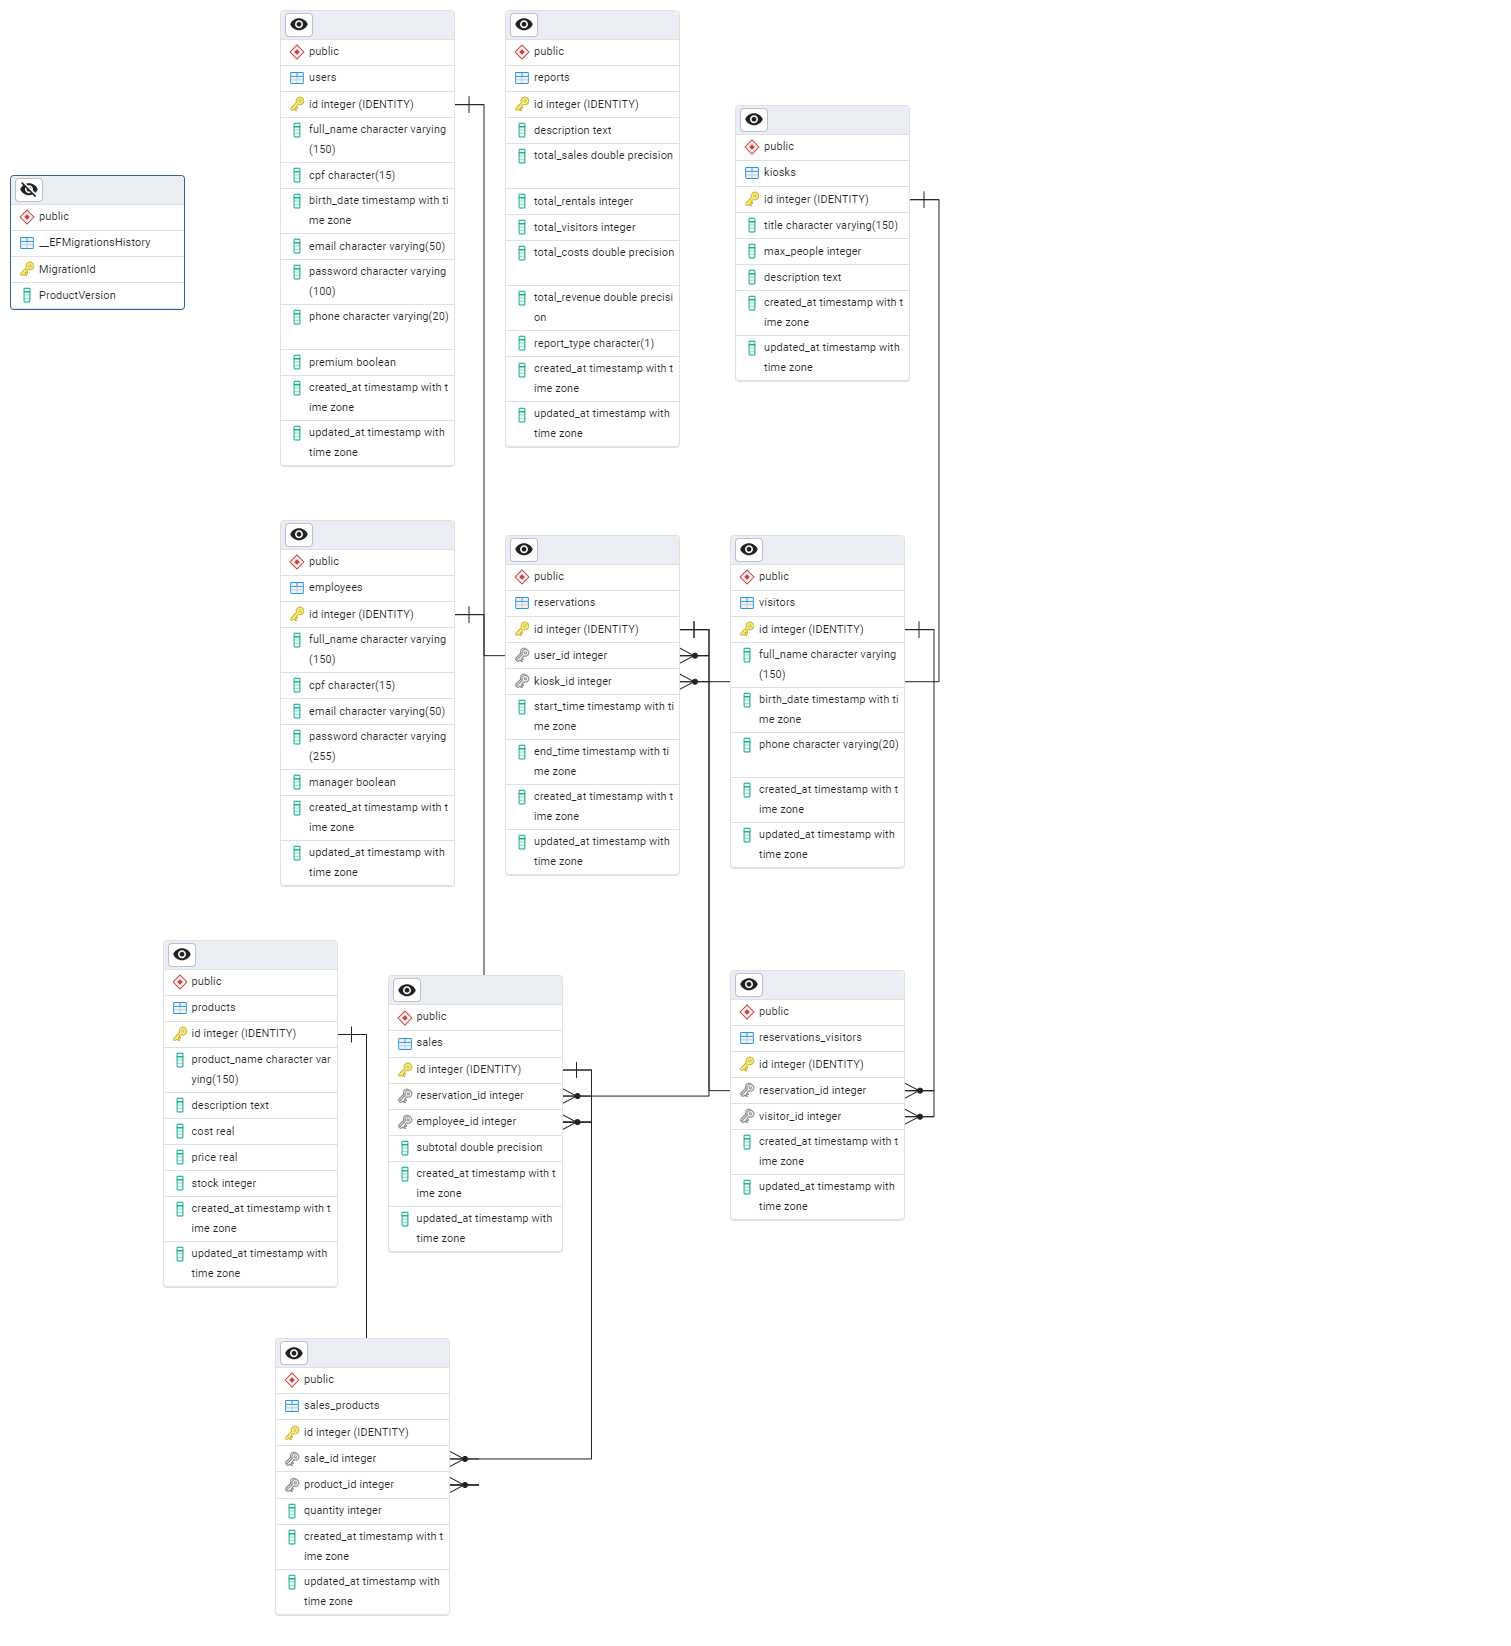
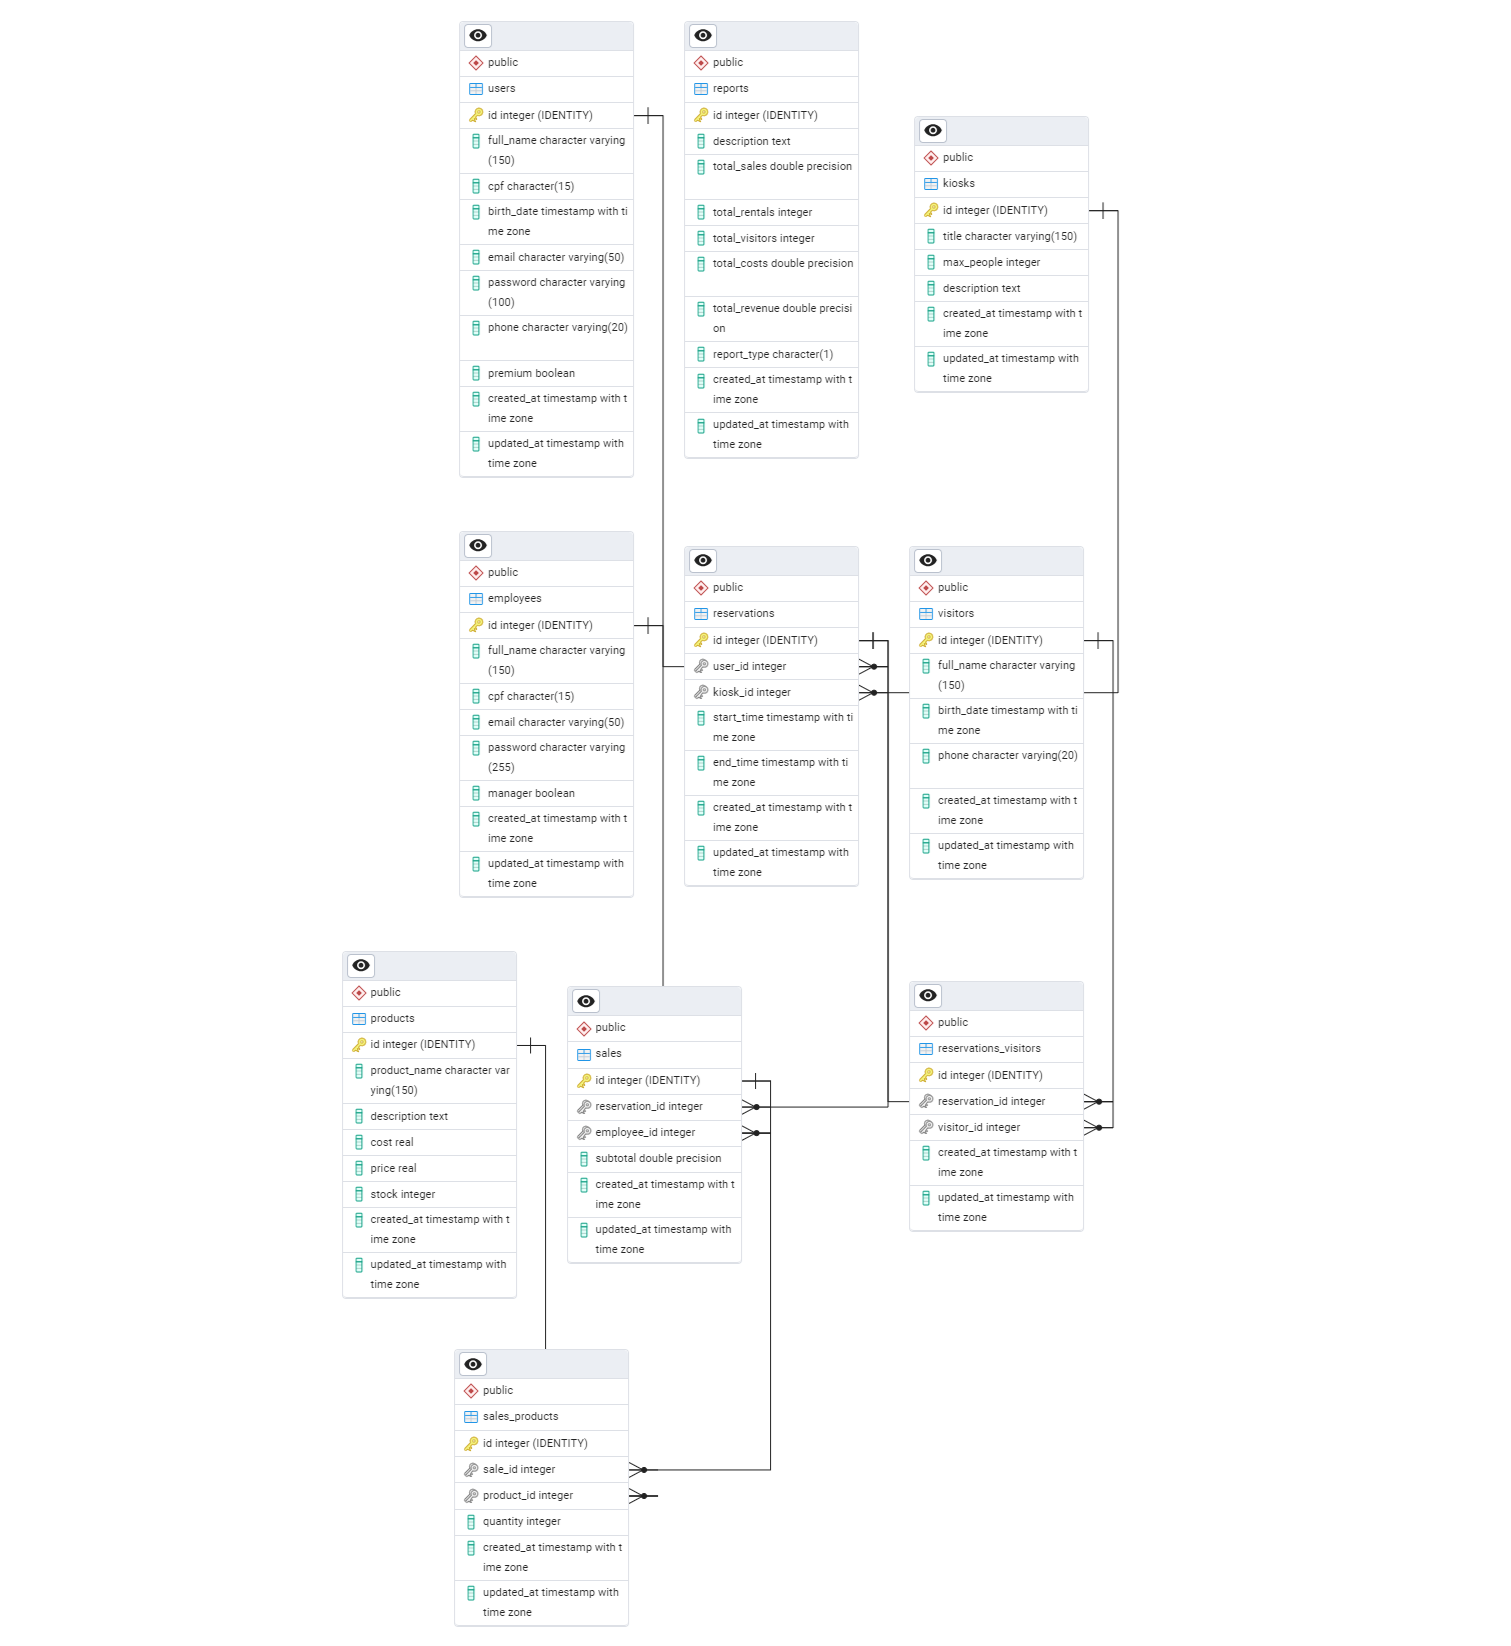
Doc: Adicionando Imagem do DER no README

diff --git a/README.md b/README.md
@@ -6,6 +6,13 @@
 O **Toca da Onça** é um sistema de gestão completo para balneários, desenvolvido para modernizar operações como reservas de espaços, controle de vendas e gestão de visitantes. Nosso objetivo é unir **natureza e tecnologia**, oferecendo uma experiência digital intuitiva para clientes e eficiência operacional para gestores.
 
 ---
+## 🖼 Imagem do DER:
+   
+![Imagem do Der](Documentation/Der/DER-TocaDaOnca.pgerd.png)
+
+Esta figura ilustra o funcionamento do nosso sistema, mostrando de forma resumida os principais componentes e sua interação.
+
+---
 
 ## 🛠 Arquitetura do Projeto  
 O sistema é dividido em **Frontend** (interface do usuário) e **Backend** (API e lógica de negócio), seguindo o padrão RESTful:  
@@ -64,15 +71,15 @@ Adotamos **Conventional Commits** para rastreabilidade clara:
 ## 📥 Instalação e Configuração  
 
 ### Pré-requisitos:  
-- [.NET 6 SDK](https://dotnet.microsoft.com/download)  
+- [.NET 8+](https://dotnet.microsoft.com/download)  
 - [PostgreSQL 14+](https://www.postgresql.org/download/)  
 - Navegador moderno (Chrome, Firefox)  
 
 ### Passos para Executar o Projeto:  
 1. **Clone o repositório**:  
    ```bash
-   git clone https://github.com/seu-usuario/toca-da-onca.git
-   cd toca-da-onca/backend
+   git clone https://github.com/joselucas0/TocaDaOnca
+   cd TocaDaOnca
    ```  
 
 2. **Configure o banco de dados**:  
@@ -127,7 +134,7 @@ Adotamos **Conventional Commits** para rastreabilidade clara:
 Use ferramentas como [Postman](https://www.postman.com/) ou `curl`:  
 ```bash
 # Exemplo: Listar quiosques
-curl -X GET https://localhost:5001/api/quiosques
+curl -X GET https://localhost:5050/api/quiosques
 ```  
 
 ### Testando o Frontend:  
